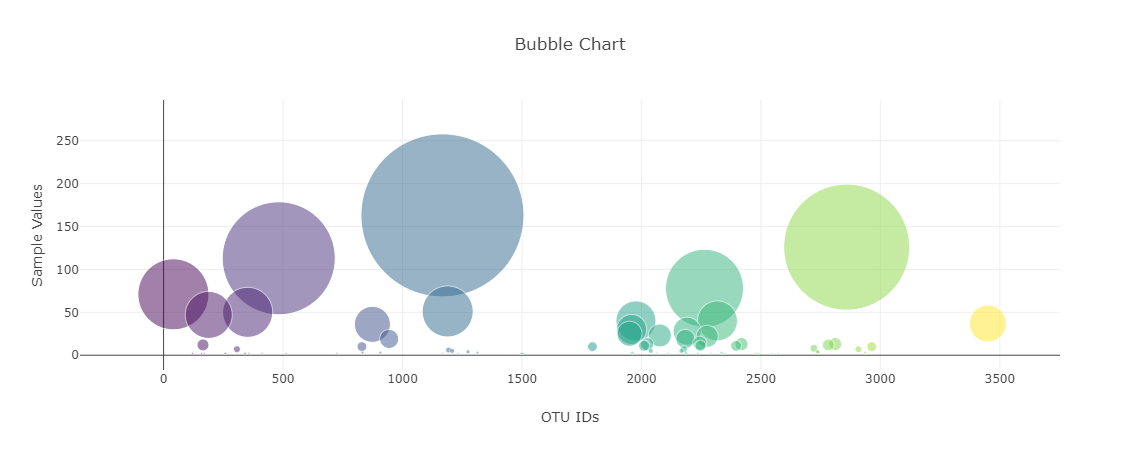
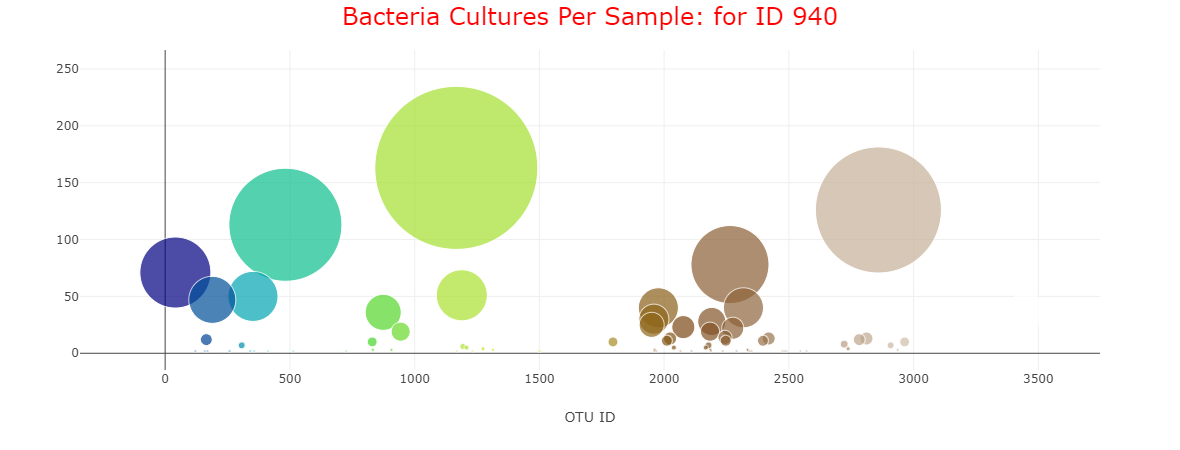
last commit

diff --git a/static/js/app.js b/static/js/app.js
@@ -18,9 +18,10 @@ function barchart(samp,id) {
   let barch = [bartrace];
 
   let barlayout = {
-    title: {text:`Top 10 OTUs for ID ${id}`,
+    title: {text:`Top 10 OTUs: for ID ${id}`,
             font: { color: "red", size: 24 }},
-    height: 400
+    height: 400,
+    
   };
  // Create the bar chart
   Plotly.newPlot('bar', barch, barlayout);
@@ -37,8 +38,7 @@ function bubblechart(samp,id) {
     marker: {
       size: samp.sample_values,
       color: samp.otu_ids,
-      colorscale: 'Viridis',
-      opacity: 0.5,
+      colorscale: "Earth",
     
     },
   };
@@ -46,9 +46,11 @@ function bubblechart(samp,id) {
   let bubblech = [bubbletrace];
 
   let bubblelayout = {
-    title: {text:`Samples for ID ${id}`, 
+    title: {text:`Bacteria Cultures Per Sample: for ID ${id}`, 
     font: { color: "red", size: 24 } } ,
-    width: 1180
+    width: 1180,
+    xaxis: { title: "OTU ID" },
+    height:600
 
   };
  // Create the bubble chart
@@ -62,7 +64,7 @@ function gaugechart(wfreq,id) {
     mode: "gauge+number+delta",
     value: wfreq,
     title: {
-      text: `Belly Button Washing Frequency<br>Scrubs per Week  for ID ${id}`, 
+      text: `Belly Button Washing Frequency<br>Scrubs per Week:  for ID ${id}`, 
       font: { color: "red", size: 24 },
       delta: { reference: 9, increasing: { color: "RebeccaPurple" } }
     },
@@ -179,8 +181,6 @@ bardiv.addEventListener("mouseleave", function() {
   bardiv.removeChild(title);
  
 });
-
-
 
 // Bubble chart
 // Get the div element and add a mouseenter event listener

diff --git a/index.html b/index.html
@@ -26,11 +26,22 @@
 
   <div class="container">
     <div class="row">
-      <div class="col-md-12 jumbotron text-center">
+      <div class="col-md-12 jumbotron text-center"style="width: 1250px;background: linear-gradient(45deg, #f06, #9f6);background-size: 200% 200%; animation: gradientAnimation 5s linear infinite;">
         <h1>Belly Button Biodiversity Dashboard</h1>
         <p>Use the interactive charts below to explore the dataset</p>
       </div>
     </div>
+    <style>
+      /* Define the keyframes for the background animation */
+      @keyframes gradientAnimation {
+          0% {
+              background-position: 0% 50%;
+          }
+          100% {
+              background-position: 100% 50%;
+          }
+      }
+  </style>
     <div class="row">
       <div class="col-md-2">
         <div class="well">

diff --git a/README.md b/README.md
@@ -6,7 +6,7 @@ Link to the website: https://robdunnlab.com/projects/belly-button-biodiversity/
 
 ## What we will learn from this project:
 
-- How to intereact between HTML and JavaScript code to creat a dynamic web applications
+- How to interact between HTML and JavaScript code to create a dynamic web application
 
 - How to retrieve data from a Json file (provided in URL link too: https://2u-data-curriculum-team.s3.amazonaws.com/dataviz-classroom/v1.1/14-Interactive-Web-Visualizations/02-Homework/samples.json)
 
@@ -22,22 +22,22 @@ Link to the website: https://robdunnlab.com/projects/belly-button-biodiversity/
  
   - Use the D3 library to read in samples.json from the URL,
 
-  - Create a bubble chart that displays each sample,
+  - Create a bubble chart that displays each sample
 
-  - Display the sample metadata, i.e., an individual's demographic information,
+  - Display the sample metadata, i.e., an individual's demographic information
 
-  - Display each key-value pair from the metadata JSON object somewhere on the page,
+  - Display each key-value pair from the metadata JSON object somewhere on the page
 
-  - Update all the plots when a new sample is selected,
+  - Update all the plots when a new sample is selected
 
-  - Create a auge Chart to plot the weekly washing frequency of the individual (optional)
+  - Create a gauge Chart to plot the weekly washing frequency of the individual (optional)
 
  ## Program:
 
 ### Tools:
 
 - Visual Studio Code (VSCode): is a free, open-source code editor developed by Microsoft.
-- Javascript: is a  programming language,  primarily used for web development.
+- Javascript: is a programming language primarily used for web development.
 
 - HTML: is the standard markup language for documents designed to be displayed in a web browser.
 
@@ -49,7 +49,7 @@ Link to the website: https://robdunnlab.com/projects/belly-button-biodiversity/
 
 ### Code:
 
-#### HTML:
+#### HTML: index.html
 ```
 <!DOCTYPE html>
 <html lang="en">
@@ -62,12 +62,12 @@ Link to the website: https://robdunnlab.com/projects/belly-button-biodiversity/
   <link rel="stylesheet" href="https://maxcdn.bootstrapcdn.com/bootstrap/3.3.7/css/bootstrap.min.css">
   <style>
     #gauge .gauge-axis text {
-      fill: white !important; /* Change to the desired text color */
+      fill: white !important; 
   }
     body {
         background-image: url('bacteria.jpg'); 
-        background-size: cover;
-        background-repeat: no-repeat; 
+        background-size: cover; 
+        background-repeat: no-repeat;
        
       }
 
@@ -79,11 +79,22 @@ Link to the website: https://robdunnlab.com/projects/belly-button-biodiversity/
 
   <div class="container">
     <div class="row">
-      <div class="col-md-12 jumbotron text-center">
+      <div class="col-md-12 jumbotron text-center"style="width: 1250px;background: linear-gradient(45deg, #f06, #9f6);background-size: 200% 200%; animation: gradientAnimation 5s linear infinite;">
         <h1>Belly Button Biodiversity Dashboard</h1>
         <p>Use the interactive charts below to explore the dataset</p>
       </div>
     </div>
+    <style>
+      /* Define the keyframes for the background animation */
+      @keyframes gradientAnimation {
+          0% {
+              background-position: 0% 50%;
+          }
+          100% {
+              background-position: 100% 50%;
+          }
+      }
+  </style>
     <div class="row">
       <div class="col-md-2">
         <div class="well">
@@ -115,11 +126,13 @@ Link to the website: https://robdunnlab.com/projects/belly-button-biodiversity/
   <script src="https://cdn.plot.ly/plotly-latest.min.js"></script>
   <script src="./static/js/app.js"></script>
  
+
 </body>
 
 </html>
+
 ```
-#### JavaScript:
+#### JavaScript: app.js
 ```
 // URL
 const url = 'https://2u-data-curriculum-team.s3.amazonaws.com/dataviz-classroom/v1.1/14-Interactive-Web-Visualizations/02-Homework/samples.json';
@@ -141,9 +154,10 @@ function barchart(samp,id) {
   let barch = [bartrace];
 
   let barlayout = {
-    title: {text:`Top 10 OTUs for ID ${id}`,
+    title: {text:`Top 10 OTUs: for ID ${id}`,
             font: { color: "red", size: 24 }},
-    height: 400
+    height: 400,
+    
   };
  // Create the bar chart
   Plotly.newPlot('bar', barch, barlayout);
@@ -160,8 +174,7 @@ function bubblechart(samp,id) {
     marker: {
       size: samp.sample_values,
       color: samp.otu_ids,
-      colorscale: 'Viridis',
-      opacity: 0.5,
+      colorscale: "Earth",
     
     },
   };
@@ -169,9 +182,11 @@ function bubblechart(samp,id) {
   let bubblech = [bubbletrace];
 
   let bubblelayout = {
-    title: {text:`Samples for ID ${id}`, 
+    title: {text:`Bacteria Cultures Per Sample: for ID ${id}`, 
     font: { color: "red", size: 24 } } ,
-    width: 1180
+    width: 1180,
+    xaxis: { title: "OTU ID" },
+    height:600
 
   };
  // Create the bubble chart
@@ -185,7 +200,7 @@ function gaugechart(wfreq,id) {
     mode: "gauge+number+delta",
     value: wfreq,
     title: {
-      text: `Belly Button Washing Frequency<br>Scrubs per Week  for ID ${id}`, 
+      text: `Belly Button Washing Frequency<br>Scrubs per Week:  for ID ${id}`, 
       font: { color: "red", size: 24 },
       delta: { reference: 9, increasing: { color: "RebeccaPurple" } }
     },
@@ -281,57 +296,93 @@ d3.json(url).then(function(data) {
 
 #### Bonus:
 Add mouse events: mouseenter & mouseleave
-Example:
-```
-// Add events mousenter and mouseleave to display the kind of chart 
-// Get the div element and add a mouseenter event listener
-let barDiv = document.getElementById("bar");
-let chartTitle = "Bar Chart Top 10 OTUs";
 
-barDiv.addEventListener("mouseenter", function() {
+```
+// Add events mousenter and mouseleave to display the type of chart 
+// Bar chart
+// Get the div element and add a mouseenter event listener
+let bardiv = document.getElementById("bar");
+bardiv.addEventListener("mouseenter", function() {
   // Create a text element to display the chart title
-  let titleElement = document.createElement("p");
-  titleElement.textContent = chartTitle;
-  
+  let title = document.createElement("p");
+  title.textContent = "Bar Chart Top 10 OTUs";
+
   // Style the text element to display it on top
-  titleElement.style.position = "absolute";
-  titleElement.style.top = "0"; 
-  titleElement.style.left = "0"; 
-  titleElement.style.backgroundColor = "rgba(0, 0, 0, 0.7)";
-  titleElement.style.color = "white";
-  titleElement.style.padding = "5px";
-  titleElement.style.borderRadius = "5px";
+  title.style.fontWeight = "bold";
+  title.style.fontStyle = "italic";
+  title.style.position = "absolute";
+  title.style.top = "0"; 
+  title.style.backgroundColor = "black";
+  title.style.color = "yellow";
   
   // Append the text element to the div
-  barDiv.appendChild(titleElement);
+  bardiv.appendChild(title);
 });
 
 // Add a mouseleave event listener to remove the text when the mouse leaves
-barDiv.addEventListener("mouseleave", function() {
-  let titleElement = barDiv.querySelector("p");
-  if (titleElement) {
-    barDiv.removeChild(titleElement);
-  }
+bardiv.addEventListener("mouseleave", function() {
+  let title = bardiv.querySelector("p");
+  bardiv.removeChild(title);
+ 
 });
-let bubbleDiv = document.getElementById("bubble");
-let bubbleChartTitle = "Bubble Chart";
 
-bubbleDiv.addEventListener("mouseenter", function() {
+// Bubble chart
+// Get the div element and add a mouseenter event listener
+let bubblediv = document.getElementById("bubble");
+bubblediv.addEventListener("mouseenter", function() {
   // Create a text element to display the chart title
-  let titleElement = document.createElement("p");
-  titleElement.textContent = bubbleChartTitle;
+  let title = document.createElement("p");
+  title.textContent = "Bubble Chart";
 
   // Style the text element to display it on top
-  titleElement.style.position = "absolute";
-  titleElement.style.top = "0"; 
-  titleElement.style.left = "0"; 
-  titleElement.style.backgroundColor = "rgba(0, 0, 0, 0.7)";
-  titleElement.style.color = "white";
-  titleElement.style.padding = "5px";
-  titleElement.style.borderRadius = "5px";
-
+  title.style.fontWeight = "bold";
+  title.style.fontStyle = "italic";
+  title.style.position = "absolute";
+  title.style.top = "0"; 
+  title.style.backgroundColor = "black";
+  title.style.color = "cyan";
+  
   // Append the text element to the div
-  bubbleDiv.appendChild(titleElement);
+  bubblediv.appendChild(title);
 });
+
+// Add a mouseleave event listener to remove the text when the mouse leaves
+bubblediv.addEventListener("mouseleave", function() {
+  let title = bubblediv.querySelector("p");
+  bubblediv.removeChild(title);
+ 
+});
+
+// Gauge chart
+// Get the div element and add a mouseenter event listener
+let gaugediv = document.getElementById("gauge");
+gaugediv.addEventListener("mouseenter", function() {
+  // Create a text element to display the chart title
+  let title = document.createElement("p");
+  title.textContent = "Gauge Chart";
+
+  // Style the text element to display it on top
+  title.style.fontWeight = "bold";
+  title.style.fontStyle = "italic";
+  title.style.position = "absolute";
+  title.style.top = "0"; 
+  title.style.backgroundColor = "black";
+  title.style.color = "magenta";
+  
+  // Append the text element to the div
+  gaugediv.appendChild(title);
+});
+
+// Add a mouseleave event listener to remove the text when the mouse leaves
+gaugediv.addEventListener("mouseleave", function() {
+  let title = gaugediv.querySelector("p");
+  gaugediv.removeChild(title);
+ 
+});
+
+
 ```
-##### Supports: Slack AskBCS Learning Assistant
+##### Supports: 
+Slack AskBCS Learning Assistant
+https://www.makeuseof.com/animated-background-html-css/
+
